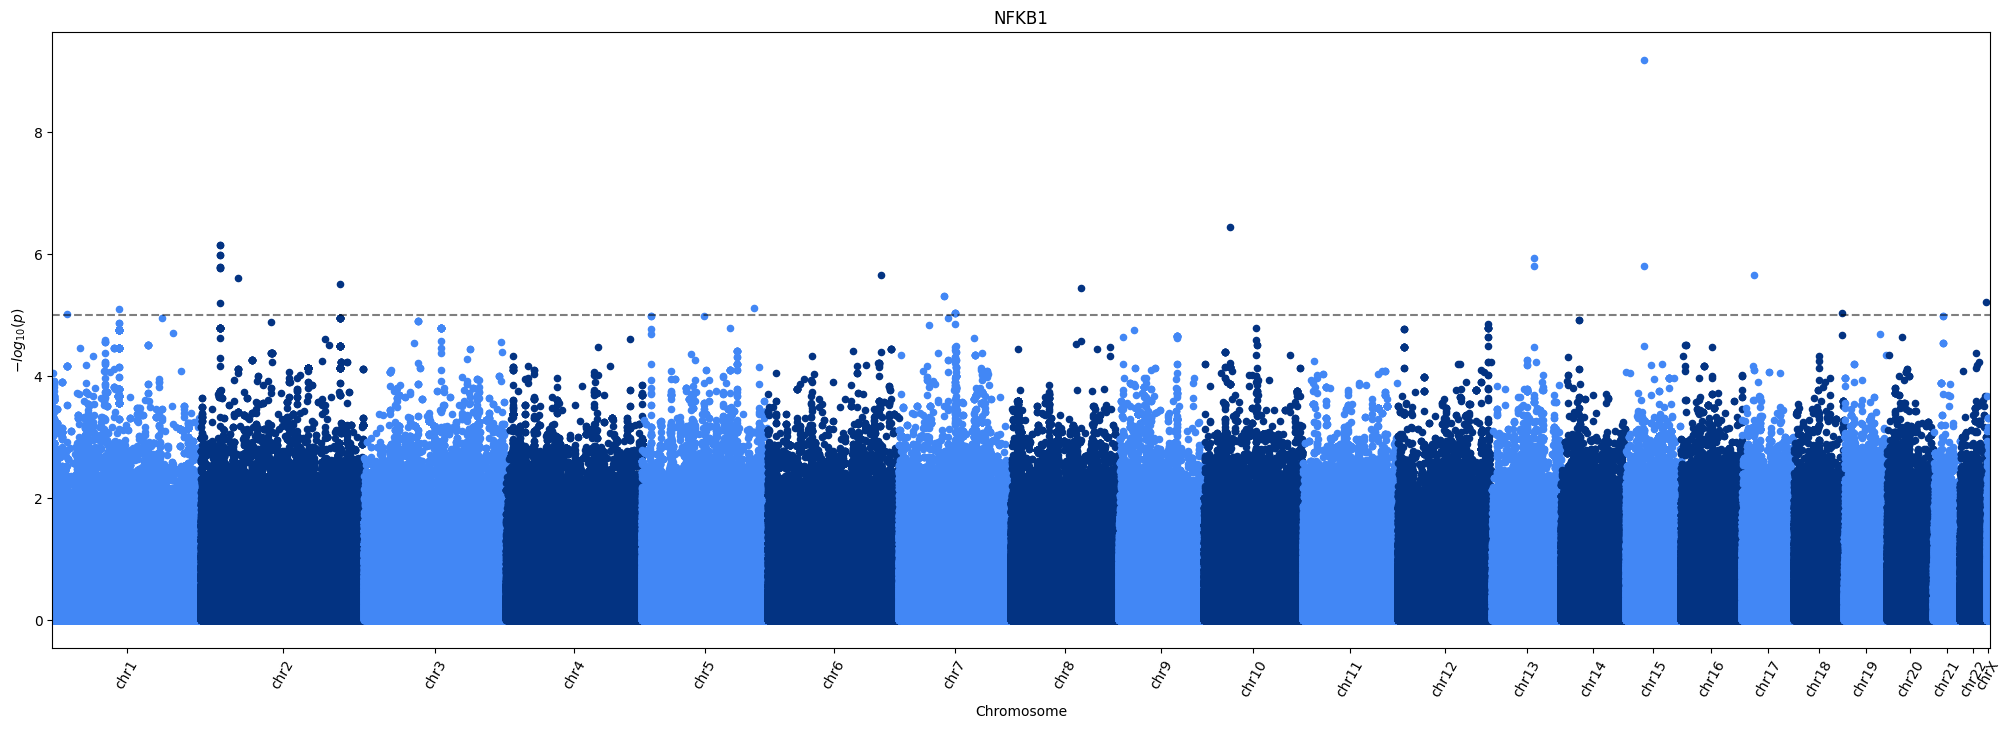
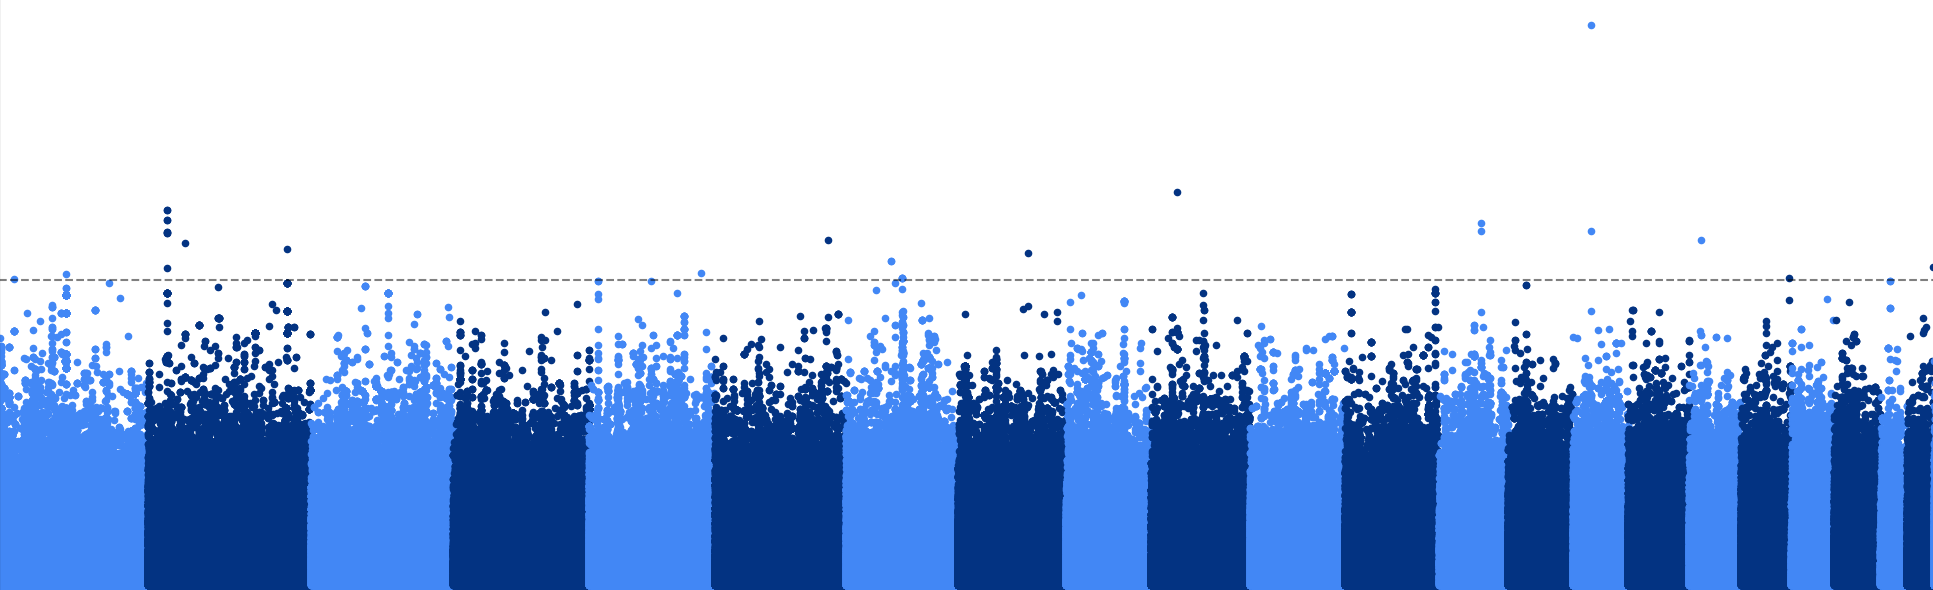
changed layout

diff --git a/index.html b/index.html
@@ -55,7 +55,7 @@
         <h1 class="heading-primary">
           <span>Hi, I'm Sonia!</span>
         </h1>
-        <p>A Computational Biologist in Cambridge, MA</p>
+        <img src="./images/sonia.jpg" alt="Sonia Bolshakova" class="header__photo" />
         <a href="#contact" class="btn btn--pink">Get in touch</a>
       </div>
   
@@ -80,37 +80,6 @@
     </div>
   </header>
   
-  <main role="main">
-
-   <!-- ***** About ***** -->
-
-   <section class="about" id="about">
-    <div class="row">
-      <h2>About Me</h2>
-      <div class="about__content">
-        <div class="about__text">
-          <!-- Replace the below paragraph with info about yourself -->
-          <p>
-            I’m currently a Computational Associate in the Nehme Lab at the Broad Institute of MIT and Harvard, where I study how genetic variation influences molecular and cellular responses in iPSC-derived models of psychiatric disease. My work focuses on integrating large-scale genomic and transcriptomic data to understand how genetic background shapes disease-relevant biology, using computational tools in R, Python, and bash to analyze and interpret complex sequencing datasets.
-
-            I hold an M.S. in Bioinformatics from Boston University, where I studied the effects of sparse overexpression of complement component 4 (C4) on neighboring untransfected cells in the prefrontal cortex of a mouse model of schizophrenia. Before beginning graduate school, I worked as a Research Technician in the Cruz-Martín Lab at Boston University, where I investigated how dysregulation of the schizophrenia-associated gene C4 affects the function of parvalbumin-positive interneurons using genetic mouse models and quantitative imaging approaches.
-
-            I also hold dual B.A. degrees in Biology (with a specialization in Behavioral Biology) and Psychology, both from Boston University. During my undergraduate studies, I completed an honors thesis examining how stigma and environmental risk factors contribute to discrepancies in global schizophrenia prevalence rates.
-
-            This portfolio highlights selected computational projects and tools I’ve developed as part of my work as a bioinformatician.
-          </p>
-          <!-- Provide a link to your resume -->
-          <a href="#" class="btn">My Resume</a>
-        </div>
-
-        <div class="about__photo-container">
-          <!-- Add a nice photo of yourself -->
-          <img class="about__photo" src="./images/sonia.jpg" alt="" />
-        </div>
-      </div>
-    </div>
-  </section>
-</main>
     <!-- ***** Work ***** -->
 
     <section class="work" id="work">
